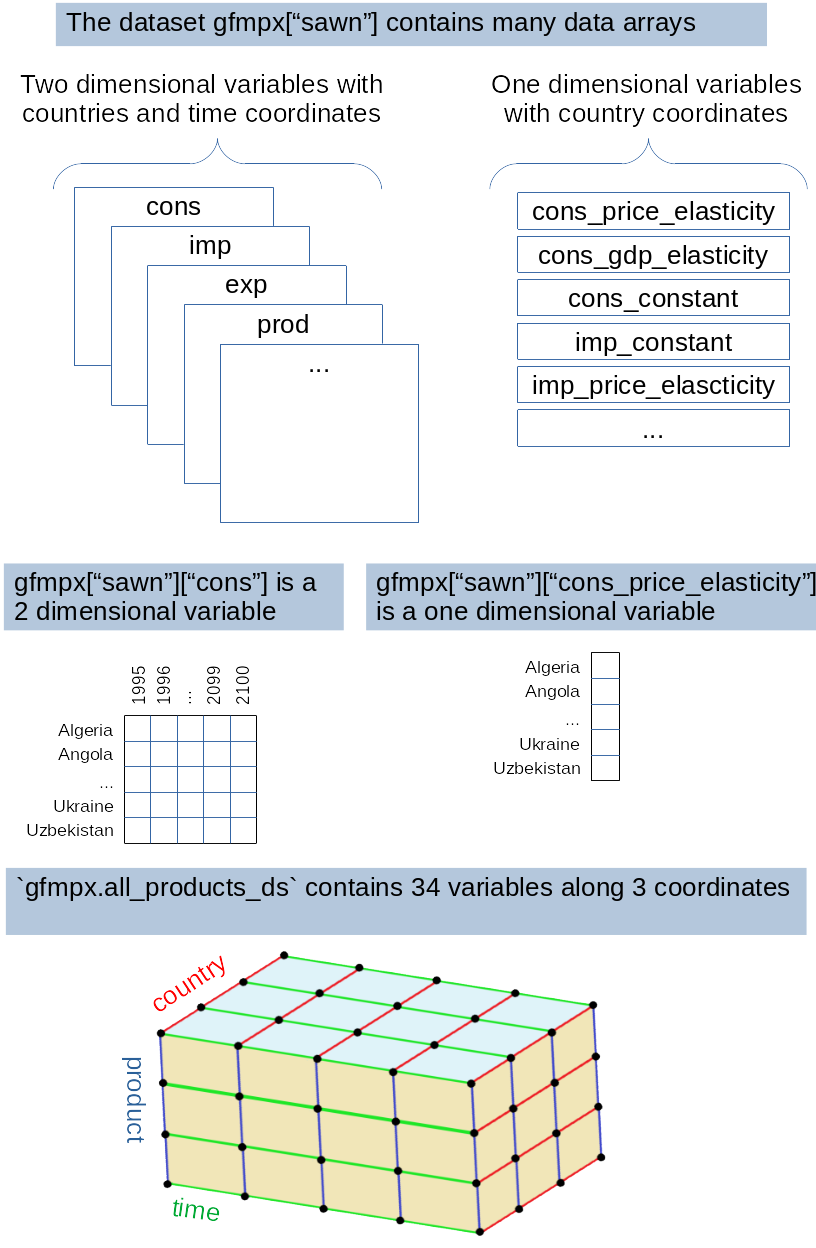
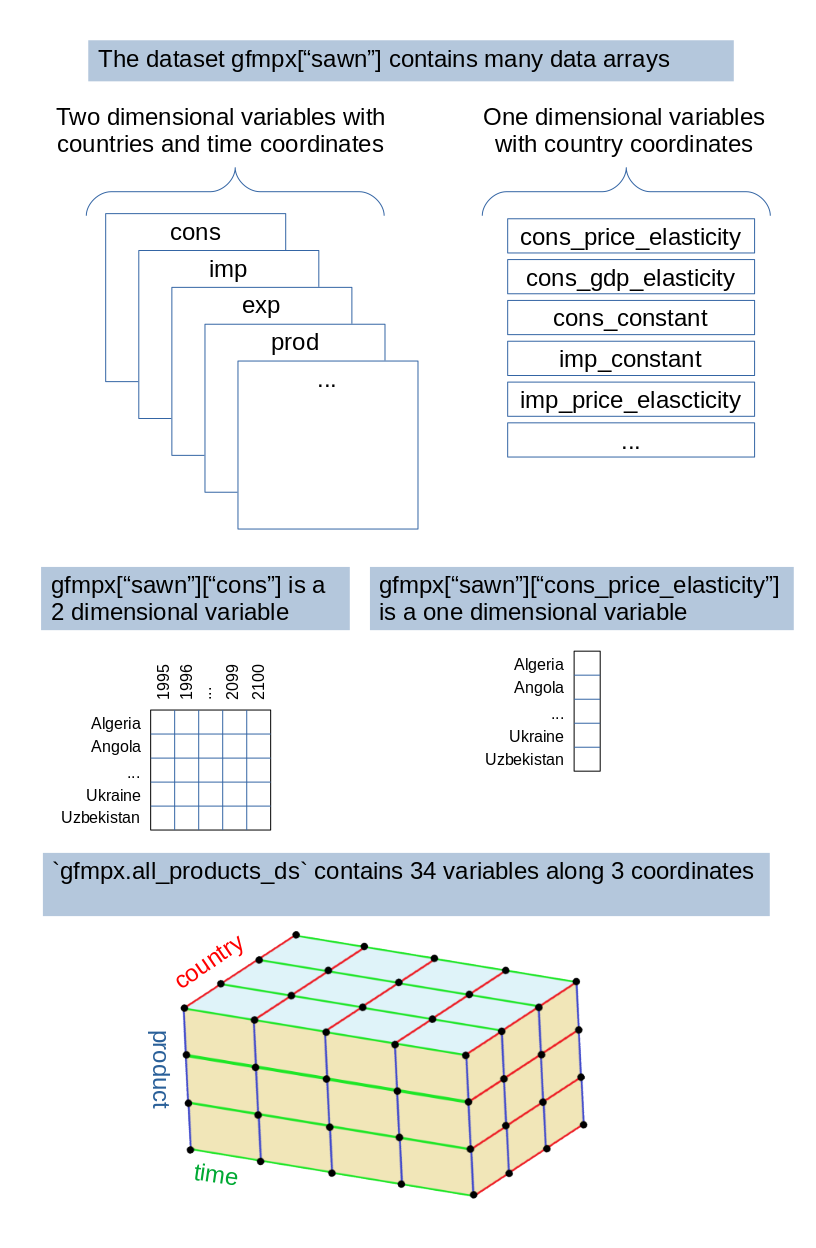
Update the drawing of the data structure

diff --git a/paper/paper.md b/paper/paper.md
@@ -252,5 +252,8 @@ within the data structure. Model outputs are saved to NetCDF files, which preser
 Xarray’s data model, including dimensions and attributes. We believe this new structure
 makes Cobwood an excellent foundation for implementing various forest sector models.
 Additionally, the scenario configuration file enables easy comparison of multiple model
-implementations across a wide range of configuration parameters. # References
+implementations across a wide range of configuration parameters.
+
+
+# References
 
